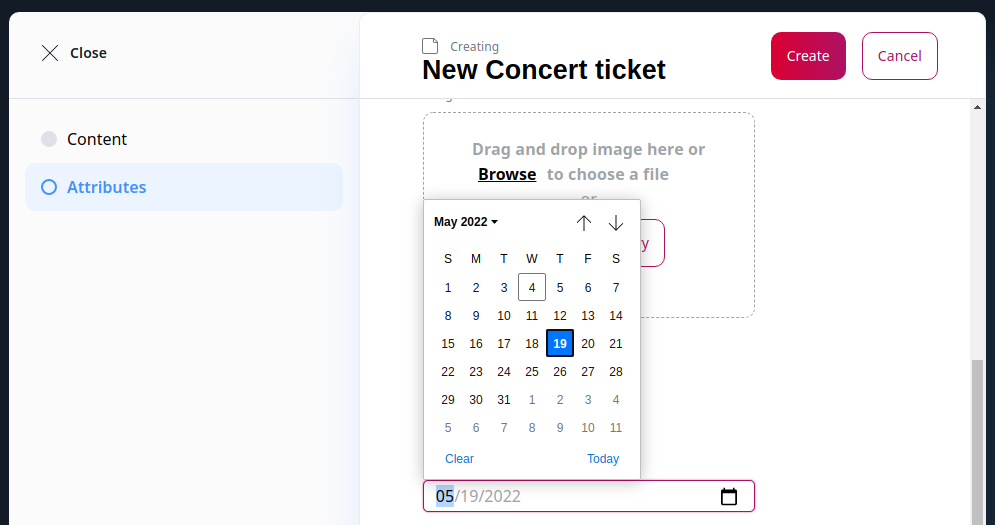
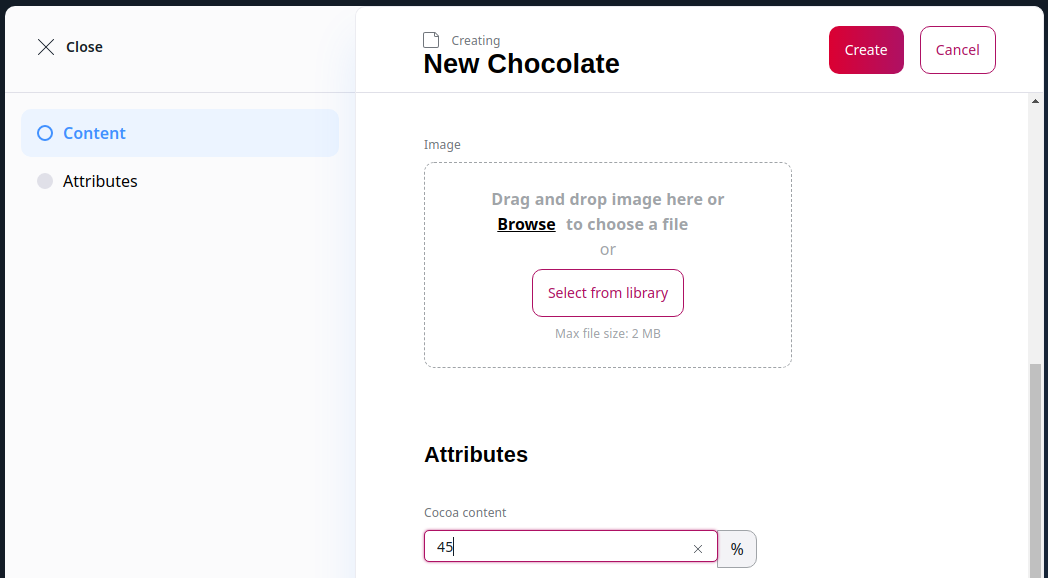
Add options, validation and change example topic

diff --git a/code_samples/catalog/custom_attribute_type/src/Attribute/Percent/Form/PercentValueFormMapper.php b/code_samples/catalog/custom_attribute_type/src/Attribute/Percent/Form/PercentValueFormMapper.php
@@ -2,15 +2,16 @@
 
 declare(strict_types=1);
 
-namespace App\Attribute\Date;
+namespace App\Attribute\Percent\Form;
 
+use Ibexa\Bundle\ProductCatalog\Validator\Constraints\AttributeValue;
 use Ibexa\Contracts\ProductCatalog\Local\Attribute\ValueFormMapperInterface;
 use Ibexa\Contracts\ProductCatalog\Values\AttributeDefinitionAssignmentInterface;
-use Symfony\Component\Form\Extension\Core\Type\DateType;
+use Symfony\Component\Form\Extension\Core\Type\PercentType;
 use Symfony\Component\Form\FormBuilderInterface;
 use Symfony\Component\Validator\Constraints as Assert;
 
-final class DateValueFormMapper implements ValueFormMapperInterface
+final class PercentValueFormMapper implements ValueFormMapperInterface
 {
     public function createValueForm(
         string $name,
@@ -23,10 +24,13 @@ final class DateValueFormMapper implements ValueFormMapperInterface
         $options = [
             'disabled' => $context['translation_mode'] ?? false,
             'label' => $definition->getName(),
-            'block_prefix' => 'date_attribute_value',
+            'block_prefix' => 'percentage_attribute_value',
             'required' => $assignment->isRequired(),
-            'widget' => 'single_text',
-            'input' => 'datetime',
+            'constraints' => [
+                new AttributeValue([
+                    'definition' => $definition,
+                ]),
+            ],
         ];
 
         if ($assignment->isRequired()) {
@@ -35,6 +39,6 @@ final class DateValueFormMapper implements ValueFormMapperInterface
             ];
         }
 
-        $builder->add($name, DateType::class, $options);
+        $builder->add($name, PercentType::class, $options);
     }
 }

diff --git a/code_samples/catalog/custom_attribute_type/src/Attribute/Percent/PercentValueValidator.php b/code_samples/catalog/custom_attribute_type/src/Attribute/Percent/PercentValueValidator.php
@@ -1,0 +1,38 @@
+<?php
+
+declare(strict_types=1);
+
+namespace App\Attribute\Percent;
+
+use Ibexa\Contracts\ProductCatalog\Local\Attribute\ValueValidationError;
+use Ibexa\Contracts\ProductCatalog\Local\Attribute\ValueValidatorInterface;
+use Ibexa\Contracts\ProductCatalog\Values\AttributeDefinitionInterface;
+
+final class PercentValueValidator implements ValueValidatorInterface
+{
+    public function validateValue(AttributeDefinitionInterface $attributeDefinition, $value): iterable
+    {
+        if ($value === null) {
+            return [];
+        }
+
+        $errors = [];
+        $options = $attributeDefinition->getOptions();
+
+        $min = $options->get('min');
+        if ($min !== null && $value < $min) {
+            $errors[] = new ValueValidationError(null, 'Percentage should be greater or equal to %min%', [
+                '%min%' => $min,
+            ]);
+        }
+
+        $max = $options->get('max');
+        if ($max !== null && $value > $max) {
+            $errors[] = new ValueValidationError(null, 'Percentage should be lesser or equal to %max%', [
+                '%max%' => $max,
+            ]);
+        }
+
+        return $errors;
+    }
+}

diff --git a/code_samples/catalog/custom_attribute_type/src/Attribute/Percent/PercentValueFormatter.php b/code_samples/catalog/custom_attribute_type/src/Attribute/Percent/PercentValueFormatter.php
@@ -2,15 +2,13 @@
 
 declare(strict_types=1);
 
-namespace App\Attribute\Date;
+namespace App\Attribute\Percent;
 
 use Ibexa\Contracts\ProductCatalog\Local\Attribute\ValueFormatterInterface;
 use Ibexa\Contracts\ProductCatalog\Values\AttributeInterface;
-use IntlDateFormatter;
-use DateTime;
-use Locale;
+use NumberFormatter;
 
-final class DateValueFormatter implements ValueFormatterInterface
+final class PercentValueFormatter implements ValueFormatterInterface
 {
     public function formatValue(AttributeInterface $attribute, array $parameters = []): ?string
     {
@@ -19,8 +17,11 @@ final class DateValueFormatter implements ValueFormatterInterface
             return null;
         }
 
-        $formatter = new IntlDateFormatter($parameters['locale'] ?? Locale::getDefault(), IntlDateFormatter::LONG, IntlDateFormatter::NONE);
+        $formatter = $parameters['formatter'] ?? null;
+        if ($formatter === null) {
+            $formatter = new NumberFormatter('', NumberFormatter::PERCENT);
+        }
 
-        return $formatter->format(new DateTime($value['date']));
+        return $formatter->format($value);
     }
 }

diff --git a/code_samples/catalog/custom_attribute_type/src/Attribute/Percent/PercentAttributeOptionsType.php b/code_samples/catalog/custom_attribute_type/src/Attribute/Percent/PercentAttributeOptionsType.php
@@ -1,0 +1,36 @@
+<?php
+
+declare(strict_types=1);
+
+namespace App\Attribute\Percent;
+
+use Symfony\Component\Form\AbstractType;
+use Symfony\Component\Form\Extension\Core\Type\PercentType;
+use Symfony\Component\Form\FormBuilderInterface;
+use Symfony\Component\OptionsResolver\OptionsResolver;
+
+final class PercentAttributeOptionsType extends AbstractType
+{
+    public function buildForm(FormBuilderInterface $builder, array $options): void
+    {
+        $builder->add('min', PercentType::class, [
+            'disabled' => $options['translation_mode'],
+            'label' => "Minimum Value",
+            'required' => false,
+        ]);
+
+        $builder->add('max', PercentType::class, [
+            'disabled' => $options['translation_mode'],
+            'label' => "Maximum Value",
+            'required' => false,
+        ]);
+    }
+
+    public function configureOptions(OptionsResolver $resolver): void
+    {
+        $resolver->setDefaults([
+            'translation_mode' => false,
+        ]);
+        $resolver->setAllowedTypes('translation_mode', 'bool');
+    }
+}

diff --git a/code_samples/catalog/custom_attribute_type/src/Attribute/Percent/PercentOptionsFormMapper.php b/code_samples/catalog/custom_attribute_type/src/Attribute/Percent/PercentOptionsFormMapper.php
@@ -1,0 +1,22 @@
+<?php
+
+declare(strict_types=1);
+
+namespace App\Attribute\Percent;
+
+use Ibexa\Bundle\ProductCatalog\Validator\Constraints\AttributeDefinitionOptions;
+use Ibexa\Contracts\ProductCatalog\Local\Attribute\OptionsFormMapperInterface;
+use Symfony\Component\Form\FormBuilderInterface;
+
+final class PercentOptionsFormMapper implements OptionsFormMapperInterface
+{
+    public function createOptionsForm(string $name, FormBuilderInterface $builder, array $context = []): void
+    {
+        $builder->add($name, PercentAttributeOptionsType::class, [
+            'constraints' => [
+                new AttributeDefinitionOptions(['type' => $context['type']]),
+            ],
+            'translation_mode' => $context['translation_mode'],
+        ]);
+    }
+}

diff --git a/docs/guide/catalog/create_custom_attribute_type.md b/docs/guide/catalog/create_custom_attribute_type.md
@@ -2,8 +2,7 @@
 
 Besides the [built-in attribute types](catalog.md#product-attributes), you can also create custom ones.
 
-The example belows shows how to add a Date attribute type.
-You could use it, for example, in a "Concert ticket" or "Film" product to indicate the event or release date.
+The example below shows how to add a Percentage attribute type.
 
 ## Select attribute type class
 
@@ -14,7 +13,7 @@ First, you need to register the type class that the attribute uses:
 ```
 
 Use the `ibexa.product_catalog.attribute_type` tag to indicate the use as a product attribute type.
-The custom attribute type has the identifier `date`.
+The custom attribute type has the identifier `percent`.
 
 ## Create value form mapper
 
@@ -22,44 +21,82 @@ A form mapper maps the data entered in an editing form into an attribute value.
 
 The form mapper must implement `Ibexa\Contracts\ProductCatalog\Local\Attribute\ValueFormMapperInterface`.
 
-In this example, you can use the Symfony's built-in `DateType` class (line 38).
+In this example, you can use the Symfony's built-in `PercentType` class (line 42).
 
-``` php hl_lines="28-29 38"
-[[= include_file('code_samples/catalog/custom_attribute_type/src/Attribute/Date/Form/DateValueFormMapper.php') =]]
+``` php hl_lines="42"
+[[= include_file('code_samples/catalog/custom_attribute_type/src/Attribute/Percent/Form/PercentValueFormMapper.php') =]]
 ```
 
-The `options` array contains additional options for the form, including options resulting from the selected form type. In this case, these are [`input`](https://symfony.com/doc/current/reference/forms/types/date.html#input) and [`widget`](https://symfony.com/doc/current/reference/forms/types/date.html#widget) options (lines 28-29) which define how the date input looks like and what type of data it returns.
+The `options` array contains additional options for the form, including options resulting from the selected form type.
 
 Register the form mapper as a service and tag it with `ibexa.product_catalog.attribute.form_mapper.value`:
 
 ``` yaml
-[[= include_file('code_samples/catalog/custom_attribute_type/config/custom_services.yaml', 8, 12) =]]
+[[= include_file('code_samples/catalog/custom_attribute_type/config/custom_services.yaml', 9, 13) =]]
 ```
 
 ## Create value formatter
 
 A value formatter prepares the attribute value for rendering in the proper format.
 
-In this example, you can use the `IntlDateFormatter` to ensure the date takes into account the selected locale.
+In this example, you can use the `NumberFormatter` to ensure the number is rendered in the percentage form (line 22).
 
-``` php
-[[= include_file('code_samples/catalog/custom_attribute_type/src/Attribute/Date/DateValueFormatter.php') =]]
+``` php hl_lines="22"
+[[= include_file('code_samples/catalog/custom_attribute_type/src/Attribute/Percent/PercentValueFormatter.php') =]]
 ```
-
-!!! tip
-
-    When rendering product attributes, use the [`ibexa_format_product_attribute`](../content_rendering/twig_function_reference/product_twig_functions.md#ibexa_format_product_attribute) Twig filter to render the attribute in a proper format.
-
 
 Register the value formatter as a service and tag it with `ibexa.product_catalog.attribute.formatter.value`:
 
+``` yaml
+[[= include_file('code_samples/catalog/custom_attribute_type/config/custom_services.yaml', 14, 18) =]]
+```
+
+## Add attribute options
+
+You can also add options specific for the attribute type that the user selects when creating an attribute.
+
+In this example, you can set the minimum and maximum allowed percentage.
+
+### Options type
+
+First, create `PercentAttributeOptionsType` that defines two options, `min` and `max`.
+Both those options need to be of `PercentType`.
+
+``` php hl_lines="16 22"
+[[= include_file('code_samples/catalog/custom_attribute_type/src/Attribute/Percent/PercentAttributeOptionsType.php') =]]
+```
+
+### Options form mapper
+
+Next, create a `PercentOptionsFormMapper` that maps the information that the user input in the form into attribute definition.
+
+``` php
+[[= include_file('code_samples/catalog/custom_attribute_type/src/Attribute/Percent/PercentOptionsFormMapper.php') =]]
+```
+
+Register the options form mapper as a service and tag it with `ibexa.product_catalog.attribute.form_mapper.options`:
 
 ``` yaml
-[[= include_file('code_samples/catalog/custom_attribute_type/config/custom_services.yaml', 12, 16) =]]
+[[= include_file('code_samples/catalog/custom_attribute_type/config/custom_services.yaml', 19, 24) =]]
+```
+
+### Validator
+
+Finally, make sure the data provided by the user is validated.
+To do that, create `PercentValueValidator` that checks the values against `min` and `max` and dispatches an error when needed.
+
+``` php hl_lines="23-27"
+[[= include_file('code_samples/catalog/custom_attribute_type/src/Attribute/Percent/PercentValueValidator.php') =]]
+```
+
+Register the validator as a service and tag it with `ibexa.product_catalog.attribute.validator.value`:
+
+``` yaml
+[[= include_file('code_samples/catalog/custom_attribute_type/config/custom_services.yaml', 25, 30) =]]
 ```
 
 ## Use new attribute type
 
-In the Back Office you can now add a new Date attribute to your product type and create a product with it.
+In the Back Office you can now add a new Percent attribute to your product type and create a product with it.
 
-![Creating a product with a custom Date attribute](../img/catalog_custom_attribute_type.png)
+![Creating a product with a custom Percent attribute](../img/catalog_custom_attribute_type.png)
